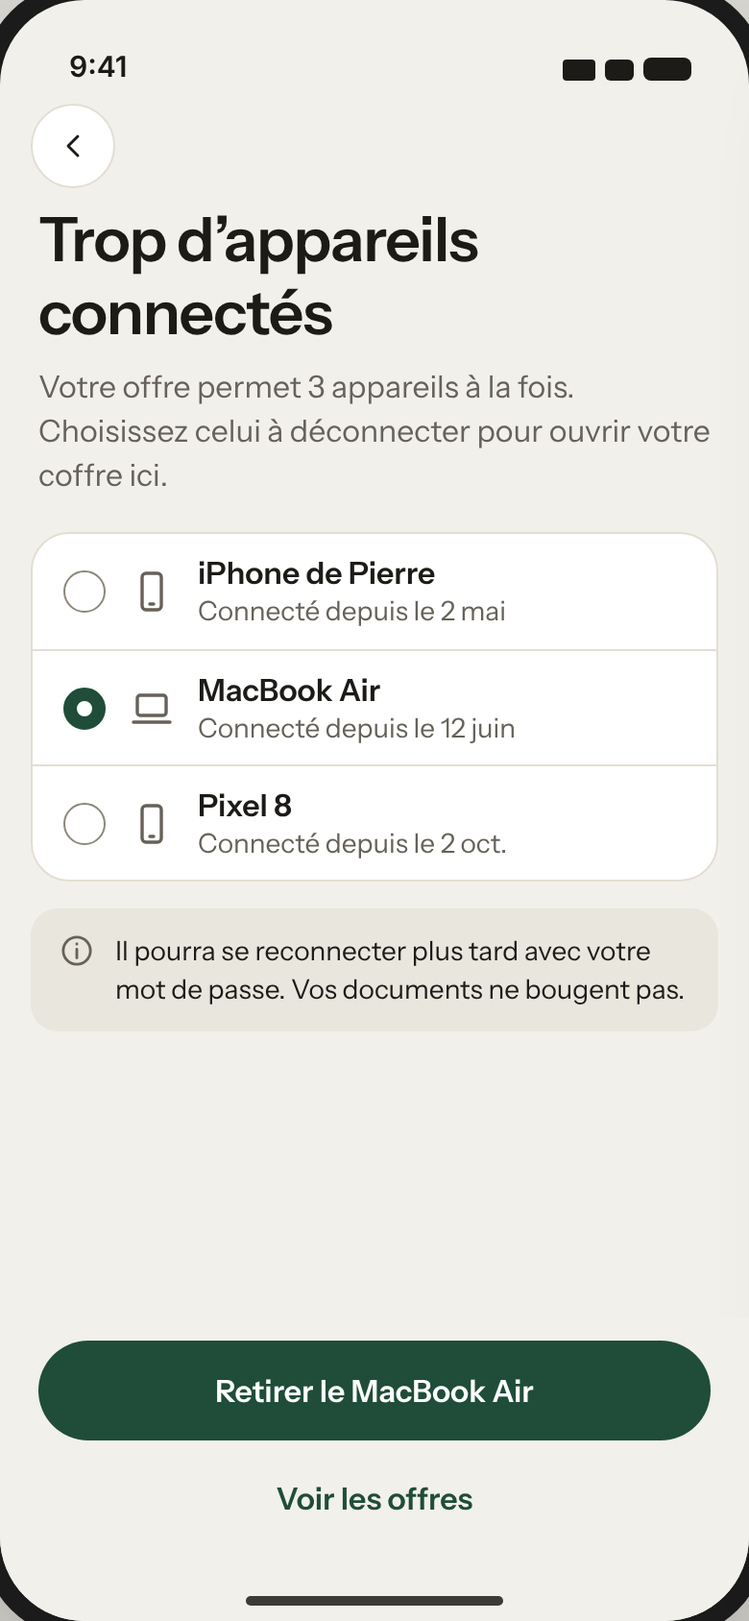
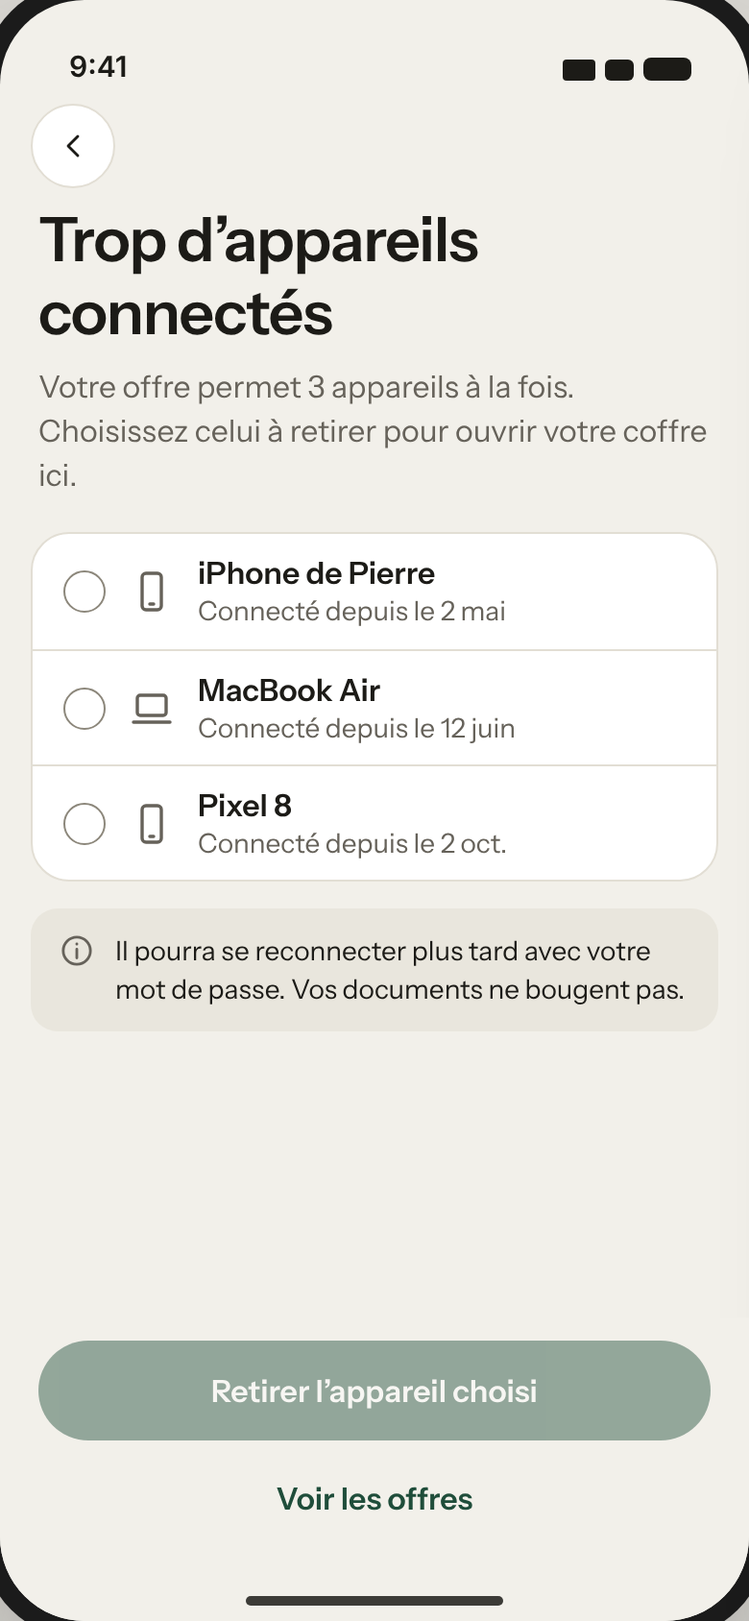
Draw only what the SDK backs, fill exit-only actions, pick no device
Removes the category chips from O7, DO7, DO7h and S2 and S2's "often
added" and per-category groups: scripts have no category or popularity
yet, so S2 lists every source from A to Z. V3 sorts newest or oldest only.
Source tiles take the script's icon from fetchIcon, initials stay as the
fallback the references show. "Le proposer" points to Aide instead of
nowhere, and the spec says what "Signaler un problème" sends.

O9, DO9, M4, S4 and M6 fill their only action, as the one-primary rule
asks. O5 and DO5 no longer pre-select the MacBook Air for removal, and
M5 lets the user rename this device; a Devices section says how devices
are named. New SDK dependencies: sorting by amount or name, script
categories, renaming a session.

Claude-Session: https://claude.ai/code/session_01NXG1oymEkKvPrzTrPTtgGc

diff --git a/design/assets/mockups/desktop-auth.html b/design/assets/mockups/desktop-auth.html
@@ -189,14 +189,14 @@
  <div class="prom"><span class="tile"><svg class="ic"><use href="#i-sync"/></svg></span><span>Sur tous vos appareils, même hors ligne.</span></div>
  </div><p class="foot2"><svg class="ic sm"><use href="#i-lock"/></svg>Votre mot de passe ne quitte jamais cet ordinateur.</p></div><div class="pane"><button class="circ tl" aria-label="Retour"><svg class="ic"><use href="#i-chev-l"/></svg></button><div class="form">
  <p class="h1">Trop d’appareils connectés</p>
- <p class="body" style="color:var(--muted);margin:8px 0 20px">Votre offre permet 3 appareils à la fois. Choisissez celui à déconnecter pour ouvrir votre coffre sur cet ordinateur.</p>
+ <p class="body" style="color:var(--muted);margin:8px 0 20px">Votre offre permet 3 appareils à la fois. Choisissez celui à retirer pour ouvrir votre coffre sur cet ordinateur.</p>
  <div class="group" style="margin:0">
   <div class="it"><span class="radio"></span><svg class="ic lg" style="color:var(--muted)"><use href="#i-phone"/></svg><div class="grow"><p class="t1">iPhone de Pierre</p><p class="t2">Connecté depuis le 2 mai</p></div></div>
-  <div class="it"><span class="radio on"></span><svg class="ic lg" style="color:var(--muted)"><use href="#i-laptop"/></svg><div class="grow"><p class="t1">MacBook Air</p><p class="t2">Connecté depuis le 12 juin</p></div></div>
+  <div class="it"><span class="radio"></span><svg class="ic lg" style="color:var(--muted)"><use href="#i-laptop"/></svg><div class="grow"><p class="t1">MacBook Air</p><p class="t2">Connecté depuis le 12 juin</p></div></div>
   <div class="it"><span class="radio"></span><svg class="ic lg" style="color:var(--muted)"><use href="#i-phone"/></svg><div class="grow"><p class="t1">Pixel 8</p><p class="t2">Connecté depuis le 2 oct.</p></div></div>
  </div>
  <div class="note info" style="margin:14px 0 0"><svg class="ic"><use href="#i-info"/></svg><span>Il pourra se reconnecter plus tard avec votre mot de passe. Vos documents ne bougent pas.</span></div>
- <div style="display:flex;gap:10px;margin-top:20px"><button class="pbtn t" style="flex:1">Voir les offres</button><button class="pbtn f" style="flex:2">Retirer le MacBook Air</button></div>
+ <div style="display:flex;gap:10px;margin-top:20px"><button class="pbtn t" style="flex:1">Voir les offres</button><button class="pbtn f" style="flex:2;opacity:.45" aria-disabled="true">Retirer l’appareil choisi</button></div>
 </div></div></div>
 </div></div>
 <div class="board"><p class="caption-board">DO6 · Kit de récupération</p>
@@ -231,7 +231,6 @@
  <p class="body" style="color:var(--muted);margin-top:6px">Fyde ira les chercher pour vous. Vous saisirez vos identifiants à l’étape suivante.</p>
  <div style="margin-top:16px"><div class="quota" role="status" aria-label="3 sources choisies sur 5"><span class="q">Votre offre <b>Gratuit</b> inclut 5 sources</span><span class="seg" aria-hidden="true"><i class="on"></i><i class="on"></i><i class="on"></i><i></i><i></i></span><span class="n">3 / 5</span></div></div>
  <div class="search" style="margin:12px 0 0"><svg class="ic"><use href="#i-search"/></svg>EDF, Free, Ameli…</div>
- <div class="chips" style="padding:12px 0 0"><span class="pc on">Populaires</span><span class="pc">Énergie</span><span class="pc">Banque</span><span class="pc">Santé</span><span class="pc">Impôts</span><span class="pc">Transport</span></div>
  <div class="srcgrid"><div class="srcc on"><span class="tile" style="--cbg:var(--c-home);--ci:var(--c-home-i)">ED</span><div class="grow"><p class="t1">EDF</p><p class="t2 trunc">Factures, échéanciers</p></div><span class="box on"><svg class="ic sm"><use href="#i-check"/></svg></span></div><div class="srcc on"><span class="tile" style="--cbg:var(--c-tax);--ci:var(--c-tax-i)">IG</span><div class="grow"><p class="t1">impots.gouv</p><p class="t2 trunc">Avis, déclarations</p></div><span class="box on"><svg class="ic sm"><use href="#i-check"/></svg></span></div><div class="srcc on"><span class="tile" style="--cbg:var(--c-health);--ci:var(--c-health-i)">AM</span><div class="grow"><p class="t1">Ameli</p><p class="t2 trunc">Remboursements, attestations</p></div><span class="box on"><svg class="ic sm"><use href="#i-check"/></svg></span></div><div class="srcc"><span class="tile" style="--cbg:var(--c-tel);--ci:var(--c-tel-i)">FR</span><div class="grow"><p class="t1">Free</p><p class="t2 trunc">Factures box et mobile</p></div><span class="box"></span></div><div class="srcc"><span class="tile" style="--cbg:var(--c-work);--ci:var(--c-work-i)">PJ</span><div class="grow"><p class="t1">Pajemploi</p><p class="t2 trunc">Bulletins de paie</p></div><span class="box"></span></div><div class="srcc"><span class="tile" style="--cbg:var(--c-trans);--ci:var(--c-trans-i)">SN</span><div class="grow"><p class="t1">SNCF Connect</p><p class="t2 trunc">Billets, factures</p></div><span class="box"></span></div><div class="srcc"><span class="tile" style="--cbg:var(--c-tel);--ci:var(--c-tel-i)">OR</span><div class="grow"><p class="t1">Orange</p><p class="t2 trunc">Factures mobile et box</p></div><span class="box"></span></div><div class="srcc"><span class="tile" style="--cbg:var(--c-health);--ci:var(--c-health-i)">AL</span><div class="grow"><p class="t1">Alan</p><p class="t2 trunc">Remboursements</p></div><span class="box"></span></div></div>
  <button class="pbtn f w" style="margin-top:20px">Connecter 3 sources</button>
 </div></div></div>
@@ -248,7 +247,6 @@
  <p class="body" style="color:var(--muted);margin-top:6px">Fyde ira les chercher pour vous. Vous saisirez vos identifiants à l’étape suivante.</p>
  <div style="margin-top:16px"><div class="quota full" role="status" aria-label="5 sources choisies sur 5"><span class="q"><b>Limite de l’offre Gratuit atteinte</b></span><span class="seg" aria-hidden="true"><i class="on"></i><i class="on"></i><i class="on"></i><i class="on"></i><i class="on"></i></span><span class="n">5 / 5</span></div></div>
  <div class="search" style="margin:12px 0 0"><svg class="ic"><use href="#i-search"/></svg>EDF, Free, Ameli…</div>
- <div class="chips" style="padding:12px 0 0"><span class="pc on">Populaires</span><span class="pc">Énergie</span><span class="pc">Banque</span><span class="pc">Santé</span><span class="pc">Impôts</span><span class="pc">Transport</span></div>
  <div class="srcgrid"><div class="srcc on"><span class="tile" style="--cbg:var(--c-home);--ci:var(--c-home-i)">ED</span><div class="grow"><p class="t1">EDF</p><p class="t2 trunc">Factures, échéanciers</p></div><span class="box on"><svg class="ic sm"><use href="#i-check"/></svg></span></div><div class="srcc on"><span class="tile" style="--cbg:var(--c-tax);--ci:var(--c-tax-i)">IG</span><div class="grow"><p class="t1">impots.gouv</p><p class="t2 trunc">Avis, déclarations</p></div><span class="box on"><svg class="ic sm"><use href="#i-check"/></svg></span></div><div class="srcc on"><span class="tile" style="--cbg:var(--c-health);--ci:var(--c-health-i)">AM</span><div class="grow"><p class="t1">Ameli</p><p class="t2 trunc">Remboursements, attestations</p></div><span class="box on"><svg class="ic sm"><use href="#i-check"/></svg></span></div><div class="srcc on"><span class="tile" style="--cbg:var(--c-tel);--ci:var(--c-tel-i)">FR</span><div class="grow"><p class="t1">Free</p><p class="t2 trunc">Factures box et mobile</p></div><span class="box on"><svg class="ic sm"><use href="#i-check"/></svg></span></div><div class="srcc on"><span class="tile" style="--cbg:var(--c-work);--ci:var(--c-work-i)">PJ</span><div class="grow"><p class="t1">Pajemploi</p><p class="t2 trunc">Bulletins de paie</p></div><span class="box on"><svg class="ic sm"><use href="#i-check"/></svg></span></div><div class="srcc off" aria-disabled="true"><span class="tile" style="--cbg:var(--c-trans);--ci:var(--c-trans-i)">SN</span><div class="grow"><p class="t1">SNCF Connect</p><p class="t2 trunc">Billets, factures</p></div><span class="box"></span></div><div class="srcc off" aria-disabled="true"><span class="tile" style="--cbg:var(--c-tel);--ci:var(--c-tel-i)">OR</span><div class="grow"><p class="t1">Orange</p><p class="t2 trunc">Factures mobile et box</p></div><span class="box"></span></div><div class="srcc off" aria-disabled="true"><span class="tile" style="--cbg:var(--c-health);--ci:var(--c-health-i)">AL</span><div class="grow"><p class="t1">Alan</p><p class="t2 trunc">Remboursements</p></div><span class="box"></span></div></div>
  <div class="note warn" style="margin:12px 0 0"><svg class="ic"><use href="#i-info"/></svg><span>Décochez une source pour en choisir une autre. Vous pourrez passer à une offre supérieure plus tard, depuis Moi › Offre et usage.</span></div>
  <button class="pbtn f w" style="margin-top:16px">Connecter 5 sources</button>
@@ -283,7 +281,7 @@
  <p class="h2" style="margin-top:28px">Ouverture de votre coffre</p>
  <p class="body" style="color:var(--muted);margin-top:8px">Vos documents chiffrés arrivent de votre compte et sont déchiffrés ici, sur ce MacBook Air.</p>
  <div class="note ok" style="margin:22px 0 0;text-align:left"><svg class="ic"><use href="#i-check-c"/></svg><span>Vous pouvez déjà parcourir ce qui est arrivé. Le reste suit en arrière-plan.</span></div>
- <button class="pbtn o w" style="margin-top:20px">Parcourir le coffre</button>
+ <button class="pbtn f w" style="margin-top:20px">Parcourir le coffre</button>
 </div></div></div>
 </div></div>
 </body></html>

diff --git a/design/assets/mockups/sources-account.html b/design/assets/mockups/sources-account.html
@@ -99,19 +99,15 @@
  <!--SB-->
  <div class="navb"><button class="circ" aria-label="Retour"><svg class="ic"><use href="#i-chev-l"/></svg></button><span class="ttl">Ajouter une source</span><span style="width:44px"></span></div>
  <div class="search"><svg class="ic"><use href="#i-search"/></svg>Fournisseur, banque, administration</div>
- <div class="chips"><span class="pc on">Tout</span><span class="pc">Énergie</span><span class="pc">Banque</span><span class="pc">Santé</span><span class="pc">Transport</span></div>
- <p class="sec">Souvent ajoutées avec les vôtres</p>
- <div class="group">
-  <div class="src"><span class="tile" style="--cbg:var(--c-tel);--ci:var(--c-tel-i)">OR</span><div class="grow"><p class="t1">Orange</p><p class="t2">Factures mobile et box</p></div><button class="pbtn o sm">Ajouter</button></div>
-  <div class="src"><span class="tile" style="--cbg:var(--c-trans);--ci:var(--c-trans-i)">SN</span><div class="grow"><p class="t1">SNCF Connect</p><p class="t2">Billets, factures</p></div><button class="pbtn o sm">Ajouter</button></div>
-  <div class="src"><span class="tile" style="--cbg:var(--c-home);--ci:var(--c-home-i)">EP</span><div class="grow"><p class="t1">Eau de Paris</p><p class="t2">Factures d’eau</p></div><button class="pbtn o sm">Ajouter</button></div>
- </div>
- <p class="sec">Santé</p>
+ <p class="sec">Sources disponibles · de A à Z</p>
  <div class="group">
   <div class="src"><span class="tile" style="--cbg:var(--c-health);--ci:var(--c-health-i)">AL</span><div class="grow"><p class="t1">Alan</p><p class="t2">Remboursements, cartes de tiers payant</p></div><button class="pbtn o sm">Ajouter</button></div>
   <div class="src"><span class="tile" style="--cbg:var(--c-health);--ci:var(--c-health-i)">AM</span><div class="grow"><p class="t1">Ameli</p><p class="t2">Déjà ajoutée</p></div><svg class="ic" style="color:var(--ok)"><use href="#i-check"/></svg></div>
+  <div class="src"><span class="tile" style="--cbg:var(--c-home);--ci:var(--c-home-i)">EP</span><div class="grow"><p class="t1">Eau de Paris</p><p class="t2">Factures d’eau</p></div><button class="pbtn o sm">Ajouter</button></div>
+  <div class="src"><span class="tile" style="--cbg:var(--c-tel);--ci:var(--c-tel-i)">OR</span><div class="grow"><p class="t1">Orange</p><p class="t2">Factures mobile et box</p></div><button class="pbtn o sm">Ajouter</button></div>
+  <div class="src"><span class="tile" style="--cbg:var(--c-trans);--ci:var(--c-trans-i)">SN</span><div class="grow"><p class="t1">SNCF Connect</p><p class="t2">Billets, factures</p></div><button class="pbtn o sm">Ajouter</button></div>
  </div>
- <p class="t2" style="text-align:center;margin-top:14px">Il manque votre fournisseur ? <b style="color:var(--primary)">Le proposer</b></p>
+ <p class="t2" style="text-align:center;margin-top:14px">Il manque votre fournisseur ? Dites-le-nous depuis <b style="color:var(--primary)">Moi › Aide</b></p>
  <!--HB-->
 </div></div>
 
@@ -150,7 +146,7 @@
   <div class="doc"><div class="mini"><i style="width:60%"></i><i></i><i></i></div><div class="grow"><p class="t1 trunc">Facture d’électricité — octobre</p><p class="t2">Logement › Énergie</p></div><p class="amt">84,20 €</p></div>
   <div class="doc"><div class="mini"><i style="width:60%"></i><i></i><i></i></div><div class="grow"><p class="t1 trunc">Échéancier 2026</p><p class="t2">Logement › Énergie</p></div><p class="amt">—</p></div>
  </div>
- <div class="foot"><button class="pbtn o w">Continuer en arrière-plan</button></div>
+ <div class="foot"><button class="pbtn f w">Continuer en arrière-plan</button></div>
  <!--HB-->
 </div></div>
 
@@ -247,7 +243,7 @@
  <p class="body pad" style="color:var(--muted);margin:6px 0 20px">Retapez-le pour vous assurer que vous le connaissez toujours. La vérification se fait sur cet appareil, rien n’est envoyé.</p>
  <div class="field"><label>Mot de passe Fyde</label><div class="in"><span class="grow" style="letter-spacing:.2em">••••••••••••••••</span><svg class="ic" style="color:var(--ok)"><use href="#i-check"/></svg></div></div>
  <div class="note ok" style="margin:0 20px"><svg class="ic"><use href="#i-check-c"/></svg><span><b style="font-weight:600">C’est le bon.</b> Fyde vous le redemandera dans 3 mois, pour ne pas l’oublier.</span></div>
- <div class="foot"><button class="pbtn o w">Terminé</button></div>
+ <div class="foot"><button class="pbtn f w">Terminé</button></div>
  <!--HB-->
 </div></div>
 
@@ -259,11 +255,11 @@
  <p class="h1 pad">Appareils</p>
  <p class="body pad" style="color:var(--muted);margin-top:6px">3 sur 3 avec l’offre Gratuit. Chaque appareil garde une copie chiffrée complète de votre coffre.</p>
  <div class="group" style="margin-top:16px">
-  <div class="it" style="min-height:72px"><svg class="ic lg" style="color:var(--muted)"><use href="#i-phone"/></svg><div class="grow"><p class="t1">iPhone de Pierre</p><p class="t2">Cet appareil · synchronisé à l’instant</p></div></div>
+  <div class="it" style="min-height:72px"><svg class="ic lg" style="color:var(--muted)"><use href="#i-phone"/></svg><div class="grow"><p class="t1">iPhone de Pierre</p><p class="t2">Cet appareil · synchronisé à l’instant</p></div><button class="pbtn t sm">Renommer</button></div>
   <div class="it" style="min-height:72px"><svg class="ic lg" style="color:var(--muted)"><use href="#i-laptop"/></svg><div class="grow"><p class="t1">MacBook Air</p><p class="t2">Synchronisé ce matin à 06:05</p></div><button class="pbtn t sm" style="color:var(--err)">Retirer</button></div>
   <div class="it" style="min-height:72px"><svg class="ic lg" style="color:var(--muted)"><use href="#i-phone"/></svg><div class="grow"><p class="t1">Pixel 8</p><p class="sl warn" style="font-weight:400"><svg class="ic xs"><use href="#i-clock"/></svg>Pas vu depuis le 2 oct. · 7 en attente</p></div><button class="pbtn t sm" style="color:var(--err)">Retirer</button></div>
  </div>
- <div class="note info" style="margin:14px 16px 0"><svg class="ic"><use href="#i-info"/></svg><span>Un appareil perdu ? Déconnectez-le : il efface ses clés dès qu’il se reconnecte au réseau.</span></div>
+ <div class="note info" style="margin:14px 16px 0"><svg class="ic"><use href="#i-info"/></svg><span>Un appareil perdu ? Retirez-le : il efface ses clés dès qu’il se reconnecte au réseau.</span></div>
  <!--HB-->
 </div></div>
 
@@ -279,7 +275,7 @@
   <div class="row" style="justify-content:space-between;margin-top:18px"><p class="t1">Appareils</p><p class="amt">3 / 3</p></div><div class="prog meter"><i style="width:100%;background:var(--warn)"></i></div><p class="sl warn" style="font-weight:400;margin-top:6px">Limite atteinte</p>
   <div class="row" style="justify-content:space-between;margin-top:18px"><p class="t1">Sources actives</p><p class="amt">5 / 5</p></div><div class="prog meter"><i style="width:100%;background:var(--warn)"></i></div><p class="sl warn" style="font-weight:400;margin-top:6px">Limite atteinte</p>
  </div>
- <div class="foot"><button class="pbtn o w">Voir les offres</button></div>
+ <div class="foot"><button class="pbtn f w">Voir les offres</button></div>
  <!--HB-->
 </div></div>
 

diff --git a/design/assets/mockups/onboarding.html b/design/assets/mockups/onboarding.html
@@ -83,14 +83,14 @@
  <!--SB-->
  <div class="navb"><button class="circ"><svg class="ic"><use href="#i-chev-l"/></svg></button><span></span><span style="width:44px"></span></div>
  <p class="h1 pad">Trop d’appareils connectés</p>
- <p class="body pad" style="color:var(--muted);margin:8px 0 18px">Votre offre permet 3 appareils à la fois. Choisissez celui à déconnecter pour ouvrir votre coffre ici.</p>
+ <p class="body pad" style="color:var(--muted);margin:8px 0 18px">Votre offre permet 3 appareils à la fois. Choisissez celui à retirer pour ouvrir votre coffre ici.</p>
  <div class="group">
   <div class="it"><span class="radio"></span><svg class="ic lg" style="color:var(--muted)"><use href="#i-phone"/></svg><div class="grow"><p class="t1">iPhone de Pierre</p><p class="t2">Connecté depuis le 2 mai</p></div></div>
-  <div class="it"><span class="radio on"></span><svg class="ic lg" style="color:var(--muted)"><use href="#i-laptop"/></svg><div class="grow"><p class="t1">MacBook Air</p><p class="t2">Connecté depuis le 12 juin</p></div></div>
+  <div class="it"><span class="radio"></span><svg class="ic lg" style="color:var(--muted)"><use href="#i-laptop"/></svg><div class="grow"><p class="t1">MacBook Air</p><p class="t2">Connecté depuis le 12 juin</p></div></div>
   <div class="it"><span class="radio"></span><svg class="ic lg" style="color:var(--muted)"><use href="#i-phone"/></svg><div class="grow"><p class="t1">Pixel 8</p><p class="t2">Connecté depuis le 2 oct.</p></div></div>
  </div>
  <div class="note info" style="margin:14px 16px 0"><svg class="ic"><use href="#i-info"/></svg><span>Il pourra se reconnecter plus tard avec votre mot de passe. Vos documents ne bougent pas.</span></div>
- <div class="foot"><button class="pbtn f w">Retirer le MacBook Air</button><button class="pbtn t w">Voir les offres</button></div>
+ <div class="foot"><button class="pbtn f w" style="opacity:.45" aria-disabled="true">Retirer l’appareil choisi</button><button class="pbtn t w">Voir les offres</button></div>
  <!--HB-->
 </div></div>
 
@@ -118,7 +118,6 @@
  <p class="body pad" style="color:var(--muted);margin-top:6px">Fyde ira les chercher pour vous. Vous saisirez vos identifiants à l’étape suivante.</p>
  <div style="margin:12px 16px 0"><div class="quota" role="status" aria-label="3 sources choisies sur 5"><span class="q">Offre <b>Gratuit</b></span><span class="seg" aria-hidden="true"><i class="on"></i><i class="on"></i><i class="on"></i><i></i><i></i></span><span class="n">3 / 5</span></div></div>
  <div class="search" style="margin-top:10px"><svg class="ic"><use href="#i-search"/></svg>EDF, Free, Ameli…</div>
- <div class="chips"><span class="pc on">Populaires</span><span class="pc">Énergie</span><span class="pc">Banque</span><span class="pc">Santé</span><span class="pc">Impôts</span></div>
  <div class="group" style="margin-top:10px">
   <div class="it"><span class="tile" style="--cbg:var(--c-home);--ci:var(--c-home-i)">ED</span><div class="grow"><p class="t1">EDF</p><p class="t2">Factures, échéanciers</p></div><span class="box on"><svg class="ic sm"><use href="#i-check"/></svg></span></div>
   <div class="it"><span class="tile" style="--cbg:var(--c-tax);--ci:var(--c-tax-i)">IG</span><div class="grow"><p class="t1">impots.gouv</p><p class="t2">Avis, déclarations</p></div><span class="box on"><svg class="ic sm"><use href="#i-check"/></svg></span></div>
@@ -168,7 +167,7 @@
  <p class="h2" style="text-align:center;margin:28px 28px 0">Ouverture de votre coffre</p>
  <p class="body" style="text-align:center;color:var(--muted);margin:8px 32px 0">Vos documents chiffrés arrivent de votre compte et sont déchiffrés ici, sur ce Pixel 8.</p>
  <div class="note ok" style="margin:26px 20px 0"><svg class="ic"><use href="#i-check-c"/></svg><span>Vous pouvez déjà parcourir ce qui est arrivé. Le reste suit en arrière-plan.</span></div>
- <div class="foot"><button class="pbtn o w">Parcourir le coffre</button></div>
+ <div class="foot"><button class="pbtn f w">Parcourir le coffre</button></div>
  <!--HB-->
 </div></div>
 </body></html>

diff --git a/design/design-system.md b/design/design-system.md
@@ -271,7 +271,9 @@ Without a session there's no sidebar. The window splits in two (DO1–DO9):
   **Offline** is a state, not an error (X1): everything local stays usable, additions queue.
 - **Errors** use the SDK's localized wording (`FfiError` messages) or our own copy, never an
   exception message.
-- **One primary action per screen**, filled; every other action is outlined or text.
+- **One primary action per screen**, filled; every other action is outlined or text. A screen
+  whose only action is moving on (O9 Parcourir le coffre, M4 Terminé, S4 Continuer en
+  arrière-plan) fills it too: it's still the primary action.
 
 ### Source status
 
@@ -353,6 +355,13 @@ Every new document, fetched or added, shows where Fyde filed it ("Rangé dans Tr
 de paie") with Modifier and C'est bon. Modifier opens the reclassify sheet (V9): category grid,
 subcategories of the chosen category only, type chips.
 
+### Devices
+
+A device is named when it signs in: the OS's name for it ("iPhone", "Pixel 8"), or "Ordinateur
+(macOS)" on desktop, never a Java or browser version. The user can rename it in Appareils (M5);
+the references show renamed devices ("iPhone de Pierre", "MacBook Air"). Lists of devices are
+never pre-selected for removal.
+
 ### Glossary
 
 One word per thing, in every screen and both languages. A new string uses these terms; a term
@@ -396,9 +405,9 @@ The references show one plan everywhere, **Gratuit**: 5 active sources, 3 device
 | O2 | Connexion | Identifiant, Mot de passe (eye), "Il ne quitte jamais cet appareil", Ouvrir le coffre | Session expired → warning note. Loading → spinner, fields disabled (key stretching takes seconds). Failed attempt → error note. Back → O1; "Créer un coffre" → O3 |
 | O3 | Créer le coffre | Step 1/4; username; password with strength meter; confirm; warning "seule clé de votre coffre"; required "J'ai compris" | Mismatch and taken username as field errors |
 | O4 | Stockage indisponible | Sheet: explanation, opt-in checkbox, Continuer quand même (enabled once checked) | On `SecureStorageUnavailable`; retries with `allowInsecureStorage` |
-| O5 | Trop d'appareils | Plan limit, radio list of open sessions, "Retirer le MacBook Air" | Re-runs login with `replaceSessionId`; credentials kept only while open |
+| O5 | Trop d'appareils | Plan limit, radio list of open sessions with none picked, "Retirer l'appareil choisi" (disabled until one is picked, then "Retirer le Pixel 8") | Nothing is pre-selected, so one tap can't cut off a device in use. Re-runs login with `replaceSessionId`; credentials kept only while open |
 | O6 | Kit de récupération | Step 2/4; 12 words; Enregistrer le PDF / Imprimer; Je l'ai mis en lieu sûr / Plus tard | Screenshots blocked. Confirm asks two words back |
-| O7 | Choisir ses sources | Step 3/4; plan counter "Offre Gratuit · 3 / 5"; search, category chips, popular public scrapers with checkboxes | Each pick opens S3, then its first run (S4), in turn, inside onboarding; a code asked during that run opens the code sheet there |
+| O7 | Choisir ses sources | Step 3/4; plan counter "Offre Gratuit · 3 / 5"; search; public scrapers with checkboxes (no category chips: scripts have no category yet) | Each pick opens S3, then its first run (S4), in turn, inside onboarding; a code asked during that run opens the code sheet there |
 | O7b | Limite de l'offre atteinte | O7 scrolled: the counter stays pinned under the bar, in `warning`, "Limite atteinte"; one line on unticking to swap; unticked sources dimmed and not tickable; pointer to Moi › Offre et usage | See [Plan quota](#plan-quota) |
 | O8 | Notifications | Step 4/4; sample notifications; Autoriser / Plus tard | OS prompt only after the tap |
 | O9 | Ouverture | Ring "142 sur 214", the device's name, "Vous pouvez déjà parcourir" | Replaces an empty vault on a new device |
@@ -409,7 +418,7 @@ The references show one plan everywhere, **Gratuit**: 5 active sources, 3 device
 |---|---|---|---|
 | V1 | Coffre | Title, search, avatar; seal line; arrivals banner; 2-column category cards (icon, count, name, latest document) in the fixed order of Principle 1, categories with no document hidden | Banner only when something needs the user, counting what the Arrivées badge counts ("4 documents arrivés", "1 code demandé · …"); pull to refresh = sync |
 | V2 | Coffre en remplissage | Running sources with progress; filled cards for categories with documents; dashed cards for expected ones | Until each connected source ran once |
-| V3 | Catégorie | Category band; subcategory chips with counts; year chips; month groups of document rows | Sort by date, amount, name; rows swipe to Partager / Reclasser |
+| V3 | Catégorie | Category band; subcategory chips with counts; year chips; month groups of document rows | Sort newest or oldest first (`SearchOrder`; amount and name need the SDK); rows swipe to Partager / Reclasser, also in V8 |
 | V4 | Recherche | Full-screen field, recent searches, type shortcuts | Opened from any search icon |
 | V5 | Résultats | Facet chips Catégorie / Type / Année / Source; matched words highlighted; "Recherche faite sur cet appareil" | No result → clear filters |
 | V6 | Document | Pass, file row with thumbnail, facts (arrivée, chiffré, mots-clés), Enregistrer / Partager | See [Document pass](#document-pass) |
@@ -440,12 +449,12 @@ The references show one plan everywhere, **Gratuit**: 5 active sources, 3 device
 
 | ID | Screen | Content | States |
 |---|---|---|---|
-| S1 | Sources | Next run; "Ont besoin de vous" then "À jour"; rows with initials tile and status; plan usage | Empty → Ajouter une source; limit → plan sheet |
-| S2 | Catalogue | Search, category chips, suggested then by category; Ajouter or check | User's own scripts in a last group |
+| S1 | Sources | Next run; "Ont besoin de vous" then "À jour"; rows with the source's tile and status; plan usage | Empty → Ajouter une source; limit → plan sheet |
+| S2 | Catalogue | Search; every public scraper from A to Z; Ajouter or a check if already added; "Il manque votre fournisseur ?" points to Aide | User's own scripts in a last group. No category chips or "often added" group until the SDK has script categories and popularity |
 | S3 | Connecter | What it fetches; the sites it may reach (`allowedDomains`); one field per script parameter (secret → masked, number → numeric, boolean → switch); automatic switch | Connect installs and runs at once (S4) |
 | S4 | Récupération en cours | Stepper Connexion → Recherche → Téléchargement i / n → Rangement; documents appear under it; Continuer en arrière-plan | Code or captcha → code sheet |
 | S5 | Détail | Status, counts, schedule switch, identifiants, sites, latest documents, Lancer, Retirer la source | — |
-| S6 | En échec | Error note with time; the failing field refocused; Mettre à jour et relancer; Signaler un problème | Report never includes credentials |
+| S6 | En échec | Error note with time; the failing field refocused; Mettre à jour et relancer; Signaler un problème | The report is the run's debug report, which never records headers, bodies or form values; a sheet shows what's sent before sending |
 | S7 | Retirer | Dialog: documents stay, credentials erased everywhere | — |
 
 ### Moi and states (M1–M8, X1)
@@ -470,7 +479,7 @@ How the account screens connect (source: `assets/mockups/map-moi.html`, rendered
 | M2 | Sécurité | Seal hero, device tiles with sync dot, Kit de récupération, Vérifier mon mot de passe, Ce que voit le serveur | Dark reference |
 | M3 | Ce que voit le serveur | "Ne voit jamais" / "Voit" lists | Keep in step with the wire format |
 | M4 | Vérifier mon mot de passe | Local check, next reminder in 3 months | Wrong → link to the recovery kit |
-| M5 | Appareils | Each device with last sync or "Pas vu depuis … · n en attente"; Retirer | The current device can't be removed here (Se déconnecter, M8) |
+| M5 | Appareils | Each device with last sync or "Pas vu depuis … · n en attente"; Retirer; Renommer on this device | The current device can't be removed here (Se déconnecter, M8) |
 | M6 | Offre et usage | Plan; meters for storage, devices, active sources | 100% → warning, over → error |
 | M7 | Apparence et langue | Theme tiles, language radios; text size follows the OS | Persisted |
 | M8 | Se déconnecter | Dialog: what is erased here, what stays; warning if no recovery kit | Wipes keys and local data even offline |
@@ -502,7 +511,7 @@ Same flows, content and SDK calls as O1–O9; layout in
 | DO4b | Trousseau absent | Dialog over DO3 (drawn) or DO2: warning tile, "Pas de trousseau système sur cet ordinateur", which keyrings were tried (GNOME Keyring, KWallet), the risk, opt-in checkbox, Annuler · Réessayer · "Créer quand même" over DO3 or "Ouvrir quand même" over DO2 (enabled once ticked; drawn ticked) | On `SecureStorageUnavailable`; Réessayer re-runs the call without the opt-in (for after installing a keyring); the confirm re-runs it with `allowInsecureStorage` |
 | DO5 | Trop d'appareils | As O5; Voir les offres · Retirer le MacBook Air | — |
 | DO6 | Kit de récupération | Step 2 of 4: 12 words in 4×3, Enregistrer le PDF / Imprimer, note that the words are never copied or sent | No copy to clipboard on desktop |
-| DO7 | Choisir ses sources | Step 3 of 4: plan counter ("Votre offre Gratuit inclut 5 sources", 3 / 5), search, category chips, 2-column source cards (selected = 2dp `primary` border + ticked box), Connecter n sources; Passer at the top right | — |
+| DO7 | Choisir ses sources | Step 3 of 4: plan counter ("Votre offre Gratuit inclut 5 sources", 3 / 5), search, 2-column source cards (selected = 2dp `primary` border + ticked box), Connecter n sources; Passer at the top right | — |
 | DO7h | Limite de l'offre atteinte | Counter in `warning` ("Limite de l'offre Gratuit atteinte", 5 / 5); unticked cards dimmed and not tickable; warning note on unticking to swap and upgrading later from Moi › Offre et usage | See [Plan quota](#plan-quota) |
 | DO7b | Connecter une source | "Source 1 sur 3"; the source's tile and what it fetches; info note naming the only sites Fyde will contact (`allowedDomains`); one field per script parameter (here e-mail and password, with "Celui de votre espace client EDF, pas celui de Fyde."); ok note "Chiffrés avec votre coffre"; Récupérer automatiquement; Connecter EDF; "Passer cette source" at the top right. The brand panel lists the ticked sources under step 3 with their state | Connect installs the script and starts its first run |
 | DO7c | Récupération en cours | Run stepper (Connexion → Recherche → Téléchargement i / n → Rangement) in a card; note that the run goes on in the background and Fyde will say if a code is asked; Attendre ici / Source suivante | Moving on doesn't stop the run; its state stays in the brand panel |
@@ -544,10 +553,10 @@ Screens compose `App*` components and never style a raw Material 3 component. Ta
 | `DocumentPass` | New | Templates by type |
 | `ArrivalsBanner`, `ClassificationSuggestion` | New | — |
 | `OneTimeCodeField` | New | See [Verification code](#verification-code) |
-| `SourceRow`, `SourceStatus`, `RunStepper` | New | See [Source status](#source-status) |
+| `SourceRow`, `SourceStatus`, `RunStepper` | New | See [Source status](#source-status). The tile shows the script's icon (`fetchIcon`, cached) on `surface`; without one, its initials on the fill of its main category. The references show the fallback |
 | `PlanQuota` | New | See [Plan quota](#plan-quota) |
 | `SealHero` | Landed (O1) | `primary` disc and lock, `primaryWash` disc, two `border` rings at 168 (`AppDimensions.sealHero`); reused by M2 |
-| `DeviceTile` | New | — |
+| `DeviceTile` | New | Device glyph, name, sync dot |
 | `UsageMeter` | Landed (M6) | Label (`bodyEmphasis`) and `used / limit` in `data`, the bar under them: `primary`, `warning` from 90% and at the limit (with a caption), `error` over. Private to `PlanUsageSection.kt` until another screen needs it |
 | `AppIconTile` | Restyle | 44 default; 36 (`AppDimensions.iconTileSmall`) beside body text, as in O1's promises; 52 (`iconTileLarge`) heading a sheet, as in O4 |
 
@@ -570,6 +579,9 @@ left out (principle 5), not faked.
 | Recovery kit and local password check | O6, M2, M4 |
 | Replay progress and per-device last seen | O9, M5, M2 |
 | First-page thumbnails | V3, D1, D2 |
+| Sorting by amount or name | V3, D1 |
+| Script categories and popularity | O7, DO7, S2 chips and groups |
+| Renaming a session | M5 |
 
 ## Delivery
 
